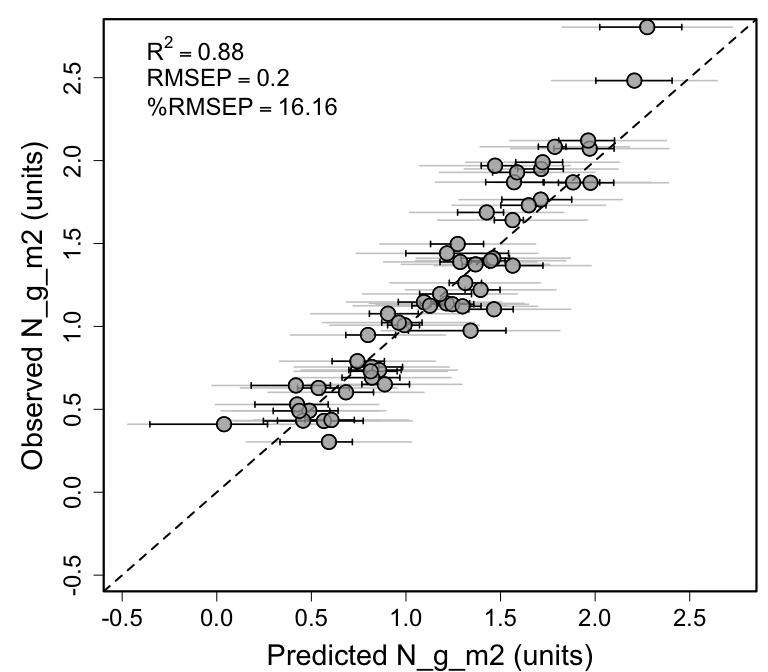
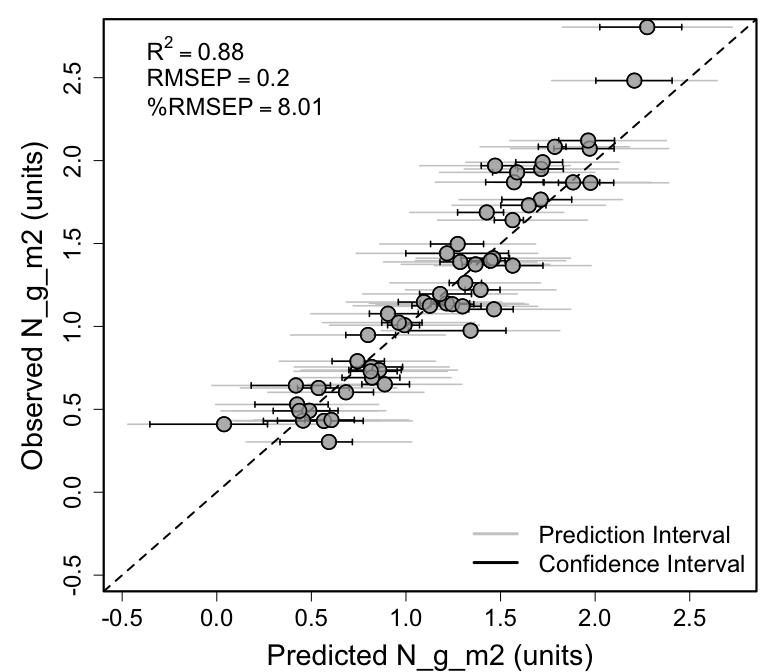
Updates

Changed region(s): [[0.6875, 0.7812, 0.9688, 0.875], [0.3438, 0.125, 0.4375, 0.1875], [0.625, 0.7812, 0.6562, 0.8438]]

diff --git a/vignettes/ely_leafN_bootstrap_plsr_example.md b/vignettes/ely_leafN_bootstrap_plsr_example.md
@@ -39,7 +39,7 @@ invisible(lapply(list.of.packages, library, character.only = TRUE))
     ## 
     ##     intersect, setdiff, setequal, union
 
-    ## here() starts at /Users/sserbin/Data/GitHub/PLSR_for_plant_trait_prediction
+    ## here() starts at /Users/sserbin/Data/GitHub/spectratrait
 
     ## 
     ## Attaching package: 'gridExtra'
@@ -103,7 +103,7 @@ inVar <- "N_g_m2"
 
 ### Set working directory (scratch space)
 
-    ## [1] "/private/var/folders/xp/h3k9vf3n2jx181ts786_yjrn9c2gjq/T/RtmpSup6Vk"
+    ## [1] "/private/var/folders/xp/h3k9vf3n2jx181ts786_yjrn9c2gjq/T/RtmpqlTXi1"
 
 ### Full PLSR dataset
 
@@ -671,13 +671,17 @@ dev.off();
 ### Bootstrap validation plot
 
 ``` r
-RMSEP <- sqrt(mean(val.plsr.output$PLSR_Residuals^2))
-pecr_RMSEP <- RMSEP/mean(val.plsr.output[,inVar])*100
+rmsep_percrmsep <- spectratrait::percent_rmse(plsr_dataset = val.plsr.output, 
+                                              inVar = inVar, 
+                                              residuals = val.plsr.output$PLSR_Residuals, 
+                                              range="full")
+RMSEP <- rmsep_percrmsep$rmse
+perc_RMSEP <- rmsep_percrmsep$perc_rmse
 r2 <- round(pls::R2(plsr.out, newdata = val.plsr.data)$val[nComps+1],2)
 expr <- vector("expression", 3)
 expr[[1]] <- bquote(R^2==.(r2))
 expr[[2]] <- bquote(RMSEP==.(round(RMSEP,2)))
-expr[[3]] <- bquote("%RMSEP"==.(round(pecr_RMSEP,2)))
+expr[[3]] <- bquote("%RMSEP"==.(round(perc_RMSEP,2)))
 rng_vals <- c(min(val.plsr.output$LPI), max(val.plsr.output$UPI))
 par(mfrow=c(1,1), mar=c(4.2,5.3,1,0.4), oma=c(0, 0.1, 0, 0.2))
 plotrix::plotCI(val.plsr.output$PLSR_Predicted,val.plsr.output[,inVar], 
@@ -696,6 +700,8 @@ plotrix::plotCI(val.plsr.output$PLSR_Predicted,val.plsr.output[,inVar],
        ylab=paste0("Observed ", paste(inVar), " (units)"),
        cex.axis=1.5,cex.lab=1.8, add=T)
 legend("topleft", legend=expr, bty="n", cex=1.5)
+legend("bottomright", legend=c("Prediction Interval","Confidence Interval"), 
+       lty=c(1,1), col = c("grey80","black"), lwd=3, bty="n", cex=1.5)
 box(lwd=2.2)
 ```
 
@@ -746,7 +752,7 @@ write.csv(out.jk.coefs,file=file.path(outdir,paste0(inVar,
 print(paste("Output directory: ", outdir))
 ```
 
-    ## [1] "Output directory:  /var/folders/xp/h3k9vf3n2jx181ts786_yjrn9c2gjq/T//RtmpSup6Vk"
+    ## [1] "Output directory:  /var/folders/xp/h3k9vf3n2jx181ts786_yjrn9c2gjq/T//RtmpqlTXi1"
 
 ``` r
 # Observed versus predicted

diff --git a/README.md b/README.md
@@ -88,7 +88,7 @@ Rpubs LeafN bootstrap example output: https://rpubs.com/sserbin/721908
 EcoSIS URL: https://ecosis.org/package/leaf-spectra--structural-and-biochemical-leaf-traits-of-eight-crop-species <br>
 EcoSIS ID: 25770ad9-d47c-428b-bf99-d1543a4b0ec9 <br>
 DOI: https://doi.org/doi:10.21232/C2GM2Z <br>
-Rpubs LeafN bootstrap example output: https://rpubs.com/sserbin/736689 <br>
+Rpubs LeafN bootstrap example output: https://rpubs.com/sserbin/736795 <br>
 
 5) Canopy spectra to map foliar functional traits over NEON domains in eastern United States <br>
 Target variable: leaf nitrogen <br>
